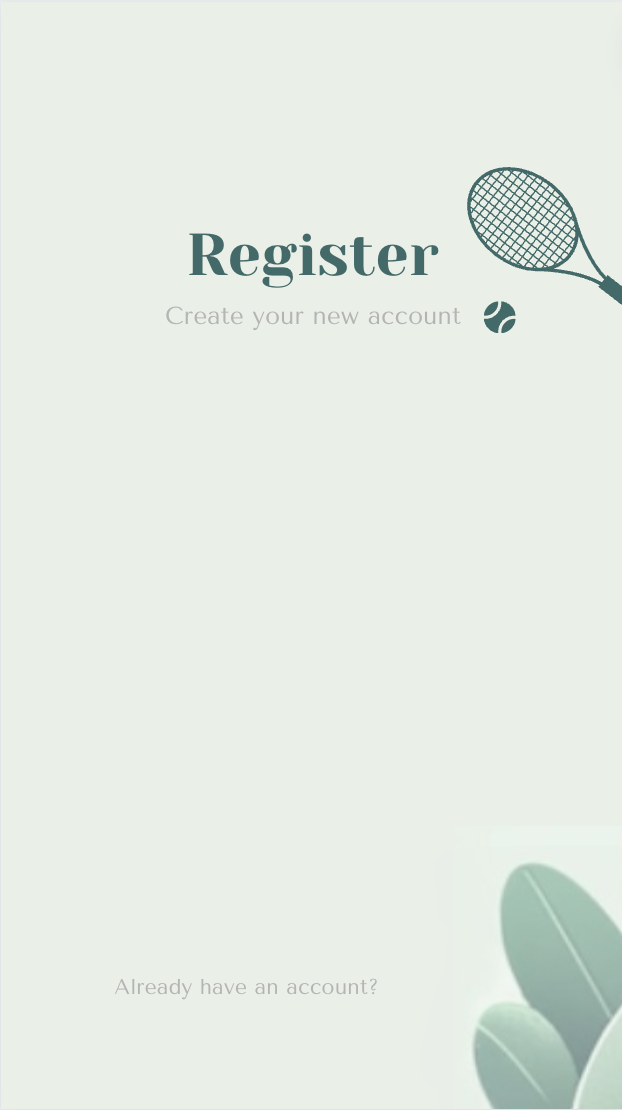
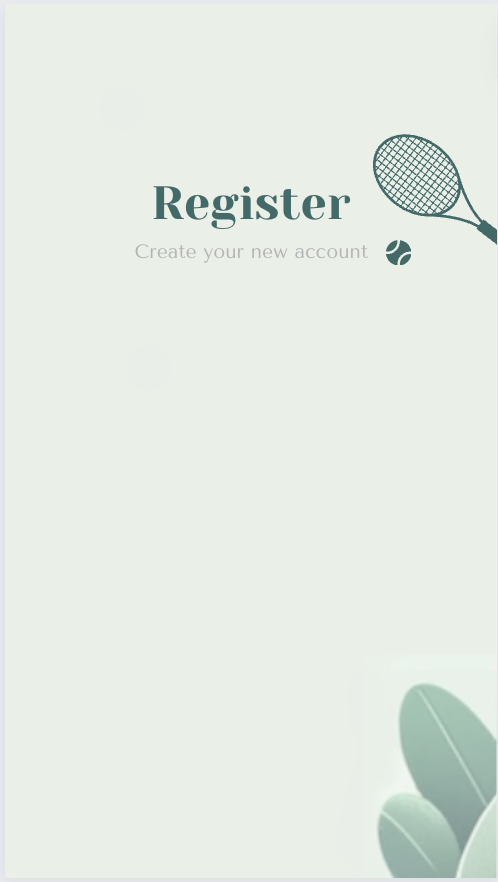
register page

diff --git a/components/StylesSheets.js b/components/StylesSheets.js
@@ -720,7 +720,7 @@ const stylesRegister = StyleSheet.create({
     justifyContent: "center",
     paddingTop: 120,
     gap: 4,
-    top: 35,
+    top: 45,
   },
   input: {
     backgroundColor: "#C3D4D3",
@@ -772,7 +772,7 @@ const stylesRegister = StyleSheet.create({
     zIndex: 1,
   },
   buttonRegister: {
-    top: 0,
+    top: 10,
     backgroundColor: "#366A68",
     width: "100%",
     padding: 12,
@@ -789,7 +789,7 @@ const stylesRegister = StyleSheet.create({
     left: 25,
     width: "30%",
     padding: 15,
-    top: -10,
+    top: 20,
     borderRadius: 10,
     alignItems: "center",
   },
@@ -832,6 +832,14 @@ const stylesRegister = StyleSheet.create({
     fontSize: 16,
     zIndex: 1,
     maxWidth: 80,
+  },
+  endTextEdit: {
+    color: "#737373",
+    fontWeight: "700",
+    fontSize: 16,
+    top: 30 ,
+    right: 50 ,
+
   },
 });
 

diff --git a/front/RegisterScreen.js b/front/RegisterScreen.js
@@ -317,8 +317,13 @@ const RegisterScreen = () => {
             >
               <Text style={stylesRegister.buttonTextSignIn}>Sign in</Text>
             </TouchableOpacity>
-          </View>
+
+          </View>        
+          <View>
+            <Text style={stylesRegister.endTextEdit}>Already have account?</Text>
         </View>
+        </View>            
+
       </TouchableWithoutFeedback>
     </ImageBackground>
   );
